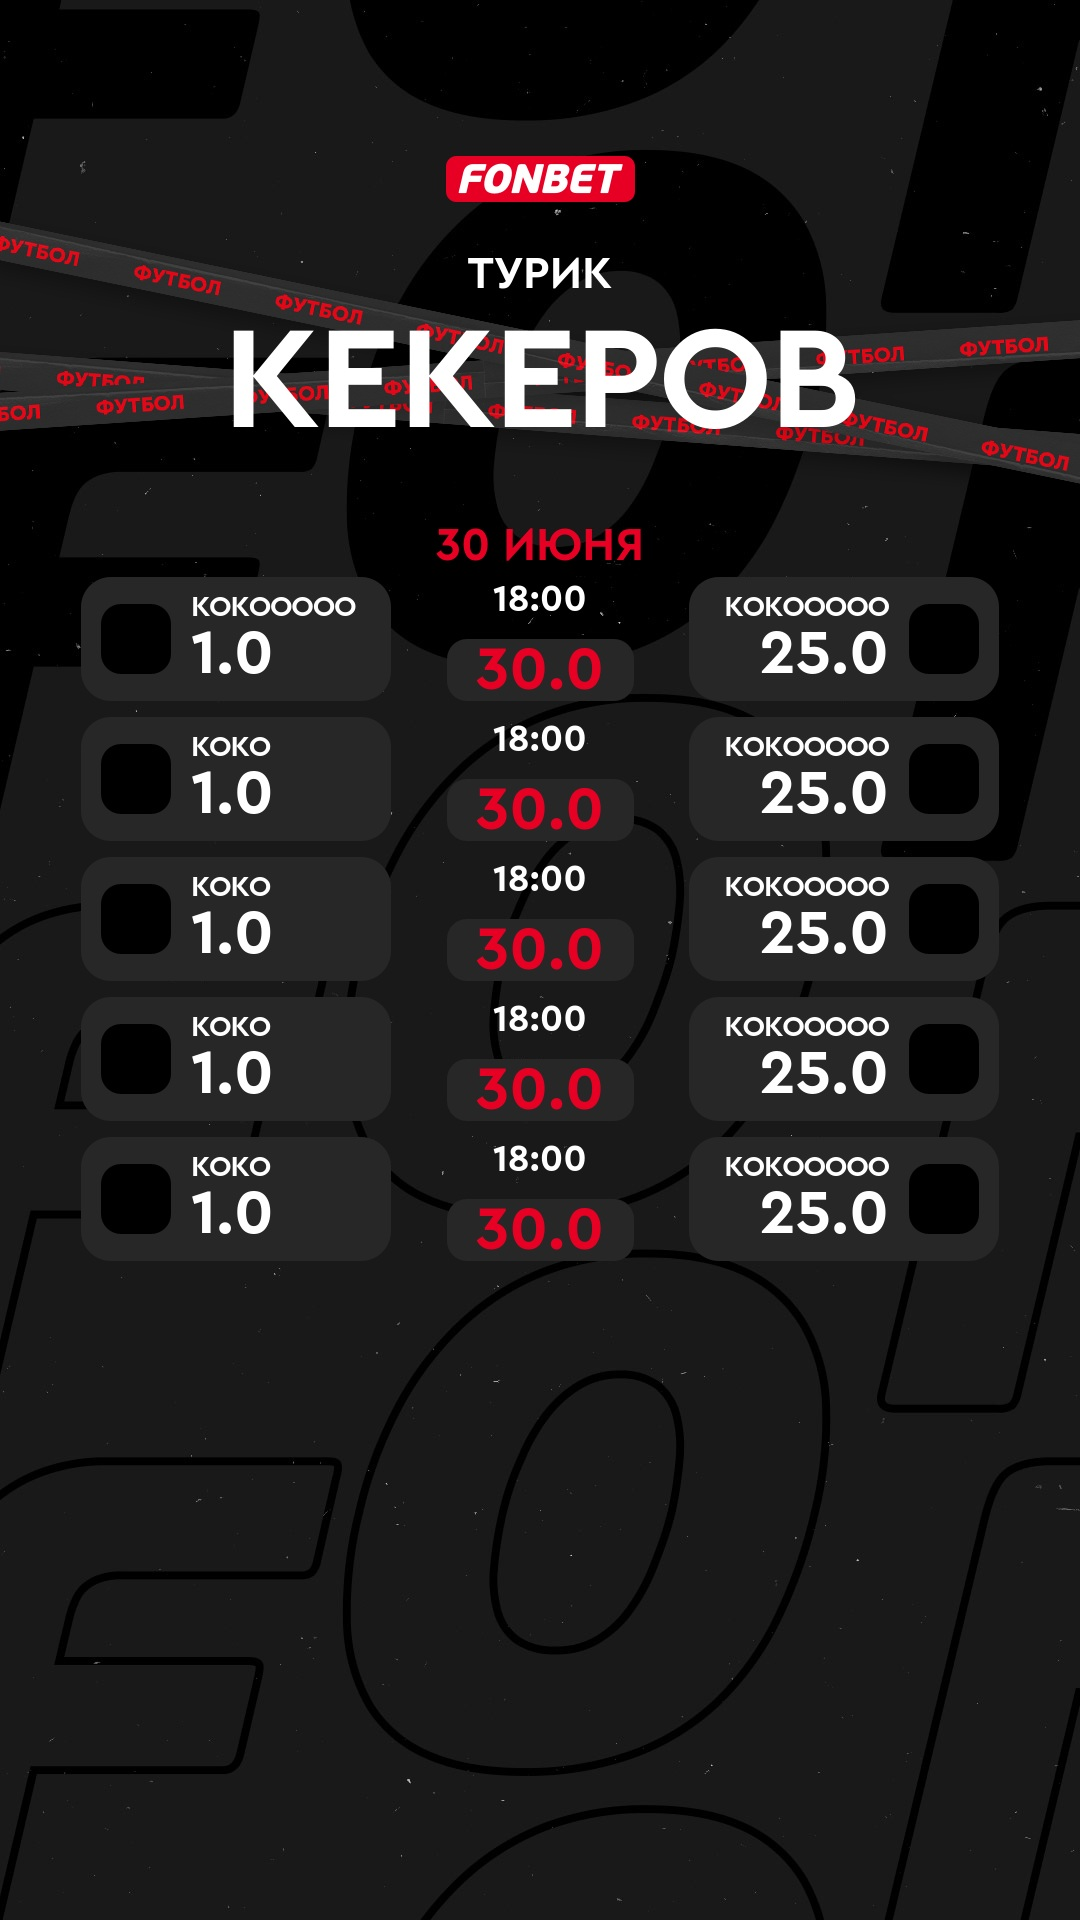
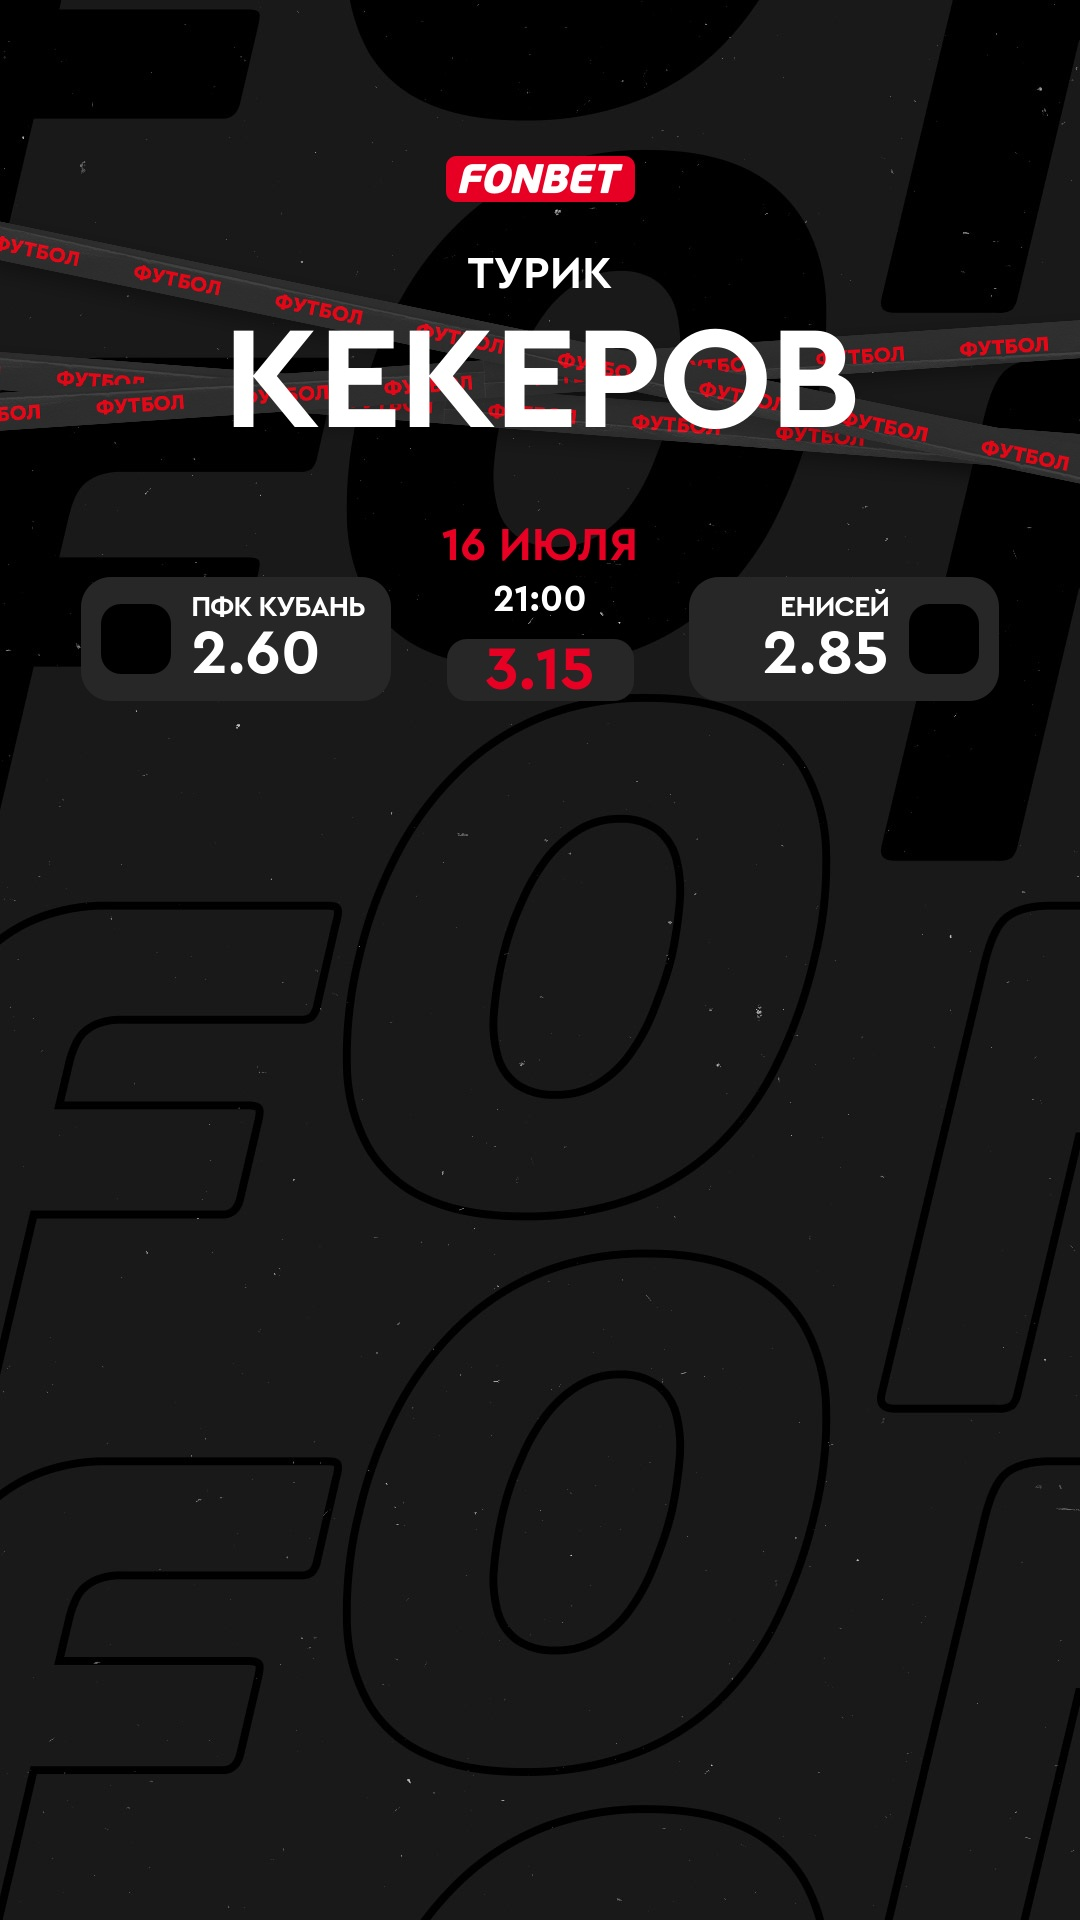
first jpg generation

diff --git a/index.html b/index.html
@@ -173,7 +173,7 @@
             align-items: flex-start;
             justify-content: center;
             height: 124px;
-            width: 170px
+            width: 200px
         }
         .mirror-image {
             margin-left: 0;
@@ -190,7 +190,7 @@
             flex-direction: column;
             justify-content: center;
             height: 124px;
-            width: 170px;
+            width: 200px;
             order: -1;
             align-items: flex-end;
             text-align: right;
@@ -244,105 +244,25 @@
             <div class="small-title">Турик</div>
             <div class="big-title">Кекеров</div>
         </div>
-        <div class="date">30 июня</div>
+        <div class="date">16 июля</div>
         <div class="table">
             <div class="row">
                 <div class="cell">
                     <div class="image"></div>
                     <div class="info">
-                        <div class="name">Kokooooo</div>
-                        <div class="rate">1.0</div>
+                        <div class="name">ПФК Кубань</div>
+                        <div class="rate">2.60</div>
                     </div>
                 </div>
                 <div class="middle-cell">
-                    <div class="time">18:00</div>
-                    <div class="middle-rate">30.0</div>
+                    <div class="time">21:00</div>
+                    <div class="middle-rate">3.15</div>
                 </div>
                 <div class="mirror-cell">
                     <div class="mirror-image"></div>
                     <div class="mirror-info">
-                        <div class="name">Kokooooo</div>
-                        <div class="rate">25.0</div>
-                    </div>
-                </div>
-            </div>
-            <div class="row">
-                <div class="cell">
-                    <div class="image"></div>
-                    <div class="info">
-                        <div class="name">Koko</div>
-                        <div class="rate">1.0</div>
-                    </div>
-                </div>
-                <div class="middle-cell">
-                    <div class="time">18:00</div>
-                    <div class="middle-rate">30.0</div>
-                </div>
-                <div class="mirror-cell">
-                    <div class="mirror-image"></div>
-                    <div class="mirror-info">
-                        <div class="name">Kokooooo</div>
-                        <div class="rate">25.0</div>
-                    </div>
-                </div>
-            </div>
-            <div class="row">
-                <div class="cell">
-                    <div class="image"></div>
-                    <div class="info">
-                        <div class="name">Koko</div>
-                        <div class="rate">1.0</div>
-                    </div>
-                </div>
-                <div class="middle-cell">
-                    <div class="time">18:00</div>
-                    <div class="middle-rate">30.0</div>
-                </div>
-                <div class="mirror-cell">
-                    <div class="mirror-image"></div>
-                    <div class="mirror-info">
-                        <div class="name">Kokooooo</div>
-                        <div class="rate">25.0</div>
-                    </div>
-                </div>
-            </div>
-            <div class="row">
-                <div class="cell">
-                    <div class="image"></div>
-                    <div class="info">
-                        <div class="name">Koko</div>
-                        <div class="rate">1.0</div>
-                    </div>
-                </div>
-                <div class="middle-cell">
-                    <div class="time">18:00</div>
-                    <div class="middle-rate">30.0</div>
-                </div>
-                <div class="mirror-cell">
-                    <div class="mirror-image"></div>
-                    <div class="mirror-info">
-                        <div class="name">Kokooooo</div>
-                        <div class="rate">25.0</div>
-                    </div>
-                </div>
-            </div>
-            <div class="row">
-                <div class="cell">
-                    <div class="image"></div>
-                    <div class="info">
-                        <div class="name">Koko</div>
-                        <div class="rate">1.0</div>
-                    </div>
-                </div>
-                <div class="middle-cell">
-                    <div class="time">18:00</div>
-                    <div class="middle-rate">30.0</div>
-                </div>
-                <div class="mirror-cell">
-                    <div class="mirror-image"></div>
-                    <div class="mirror-info">
-                        <div class="name">Kokooooo</div>
-                        <div class="rate">25.0</div>
+                        <div class="name">Енисей</div>
+                        <div class="rate">2.85</div>
                     </div>
                 </div>
             </div>

diff --git a/resources/template.html b/resources/template.html
@@ -173,7 +173,7 @@
             align-items: flex-start;
             justify-content: center;
             height: 124px;
-            width: 170px
+            width: 200px
         }
         .mirror-image {
             margin-left: 0;
@@ -190,7 +190,7 @@
             flex-direction: column;
             justify-content: center;
             height: 124px;
-            width: 170px;
+            width: 200px;
             order: -1;
             align-items: flex-end;
             text-align: right;

diff --git a/resources/HTML_bank.py b/resources/HTML_bank.py
@@ -175,7 +175,7 @@ class HTMLBank:
             align-items: flex-start;
             justify-content: center;
             height: 124px;
-            width: 170px
+            width: 200px
         }}
         .mirror-image {{
             margin-left: 0;
@@ -192,7 +192,7 @@ class HTMLBank:
             flex-direction: column;
             justify-content: center;
             height: 124px;
-            width: 170px;
+            width: 200px;
             order: -1;
             align-items: flex-end;
             text-align: right;
@@ -246,105 +246,25 @@ class HTMLBank:
             <div class="small-title">Турик</div>
             <div class="big-title">Кекеров</div>
         </div>
-        <div class="date">30 июня</div>
+        <div class="date">{models_list[0].game.date}</div>
         <div class="table">
             <div class="row">
                 <div class="cell">
                     <div class="image"></div>
                     <div class="info">
-                        <div class="name">Kokooooo</div>
-                        <div class="rate">1.0</div>
+                        <div class="name">{models_list[0].game.teams.firstTeam.name}</div>
+                        <div class="rate">{models_list[0].game.teams.firstTeam.rate}</div>
                     </div>
                 </div>
                 <div class="middle-cell">
-                    <div class="time">18:00</div>
-                    <div class="middle-rate">30.0</div>
+                    <div class="time">{models_list[0].game.time}</div>
+                    <div class="middle-rate">{models_list[0].game.teams.draw.rate}</div>
                 </div>
                 <div class="mirror-cell">
                     <div class="mirror-image"></div>
                     <div class="mirror-info">
-                        <div class="name">Kokooooo</div>
-                        <div class="rate">25.0</div>
-                    </div>
-                </div>
-            </div>
-            <div class="row">
-                <div class="cell">
-                    <div class="image"></div>
-                    <div class="info">
-                        <div class="name">Koko</div>
-                        <div class="rate">1.0</div>
-                    </div>
-                </div>
-                <div class="middle-cell">
-                    <div class="time">18:00</div>
-                    <div class="middle-rate">30.0</div>
-                </div>
-                <div class="mirror-cell">
-                    <div class="mirror-image"></div>
-                    <div class="mirror-info">
-                        <div class="name">Kokooooo</div>
-                        <div class="rate">25.0</div>
-                    </div>
-                </div>
-            </div>
-            <div class="row">
-                <div class="cell">
-                    <div class="image"></div>
-                    <div class="info">
-                        <div class="name">Koko</div>
-                        <div class="rate">1.0</div>
-                    </div>
-                </div>
-                <div class="middle-cell">
-                    <div class="time">18:00</div>
-                    <div class="middle-rate">30.0</div>
-                </div>
-                <div class="mirror-cell">
-                    <div class="mirror-image"></div>
-                    <div class="mirror-info">
-                        <div class="name">Kokooooo</div>
-                        <div class="rate">25.0</div>
-                    </div>
-                </div>
-            </div>
-            <div class="row">
-                <div class="cell">
-                    <div class="image"></div>
-                    <div class="info">
-                        <div class="name">Koko</div>
-                        <div class="rate">1.0</div>
-                    </div>
-                </div>
-                <div class="middle-cell">
-                    <div class="time">18:00</div>
-                    <div class="middle-rate">30.0</div>
-                </div>
-                <div class="mirror-cell">
-                    <div class="mirror-image"></div>
-                    <div class="mirror-info">
-                        <div class="name">Kokooooo</div>
-                        <div class="rate">25.0</div>
-                    </div>
-                </div>
-            </div>
-            <div class="row">
-                <div class="cell">
-                    <div class="image"></div>
-                    <div class="info">
-                        <div class="name">Koko</div>
-                        <div class="rate">1.0</div>
-                    </div>
-                </div>
-                <div class="middle-cell">
-                    <div class="time">18:00</div>
-                    <div class="middle-rate">30.0</div>
-                </div>
-                <div class="mirror-cell">
-                    <div class="mirror-image"></div>
-                    <div class="mirror-info">
-                        <div class="name">Kokooooo</div>
-                        <div class="rate">25.0</div>
+                        <div class="name">{models_list[0].game.teams.secondTeam.name}</div>
+                        <div class="rate">{models_list[0].game.teams.secondTeam.rate}</div>
                     </div>
                 </div>
             </div>
